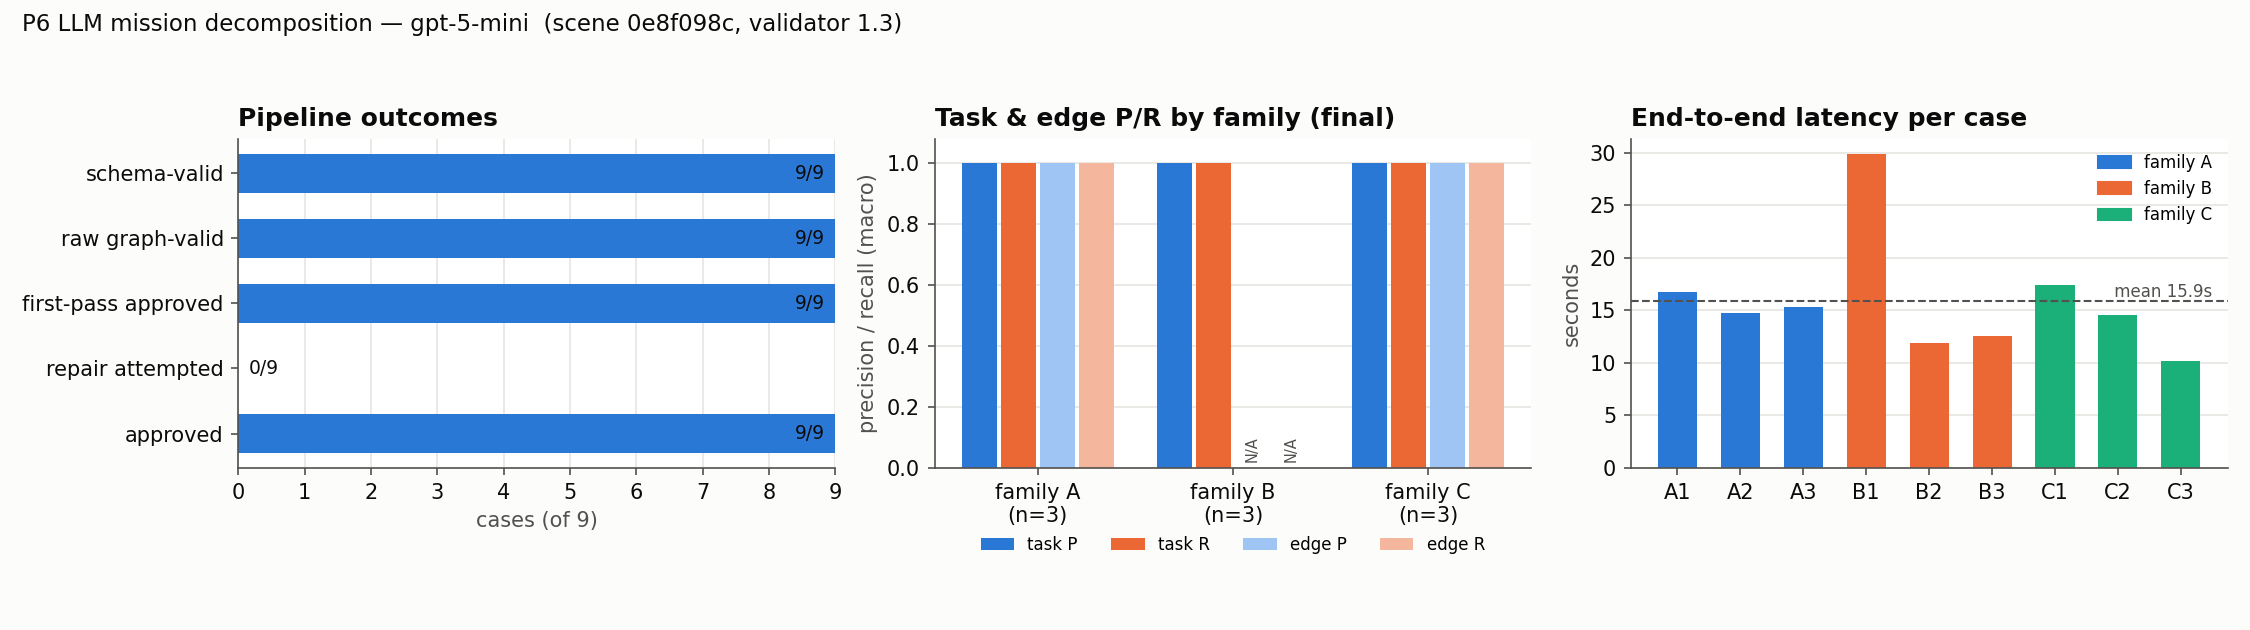
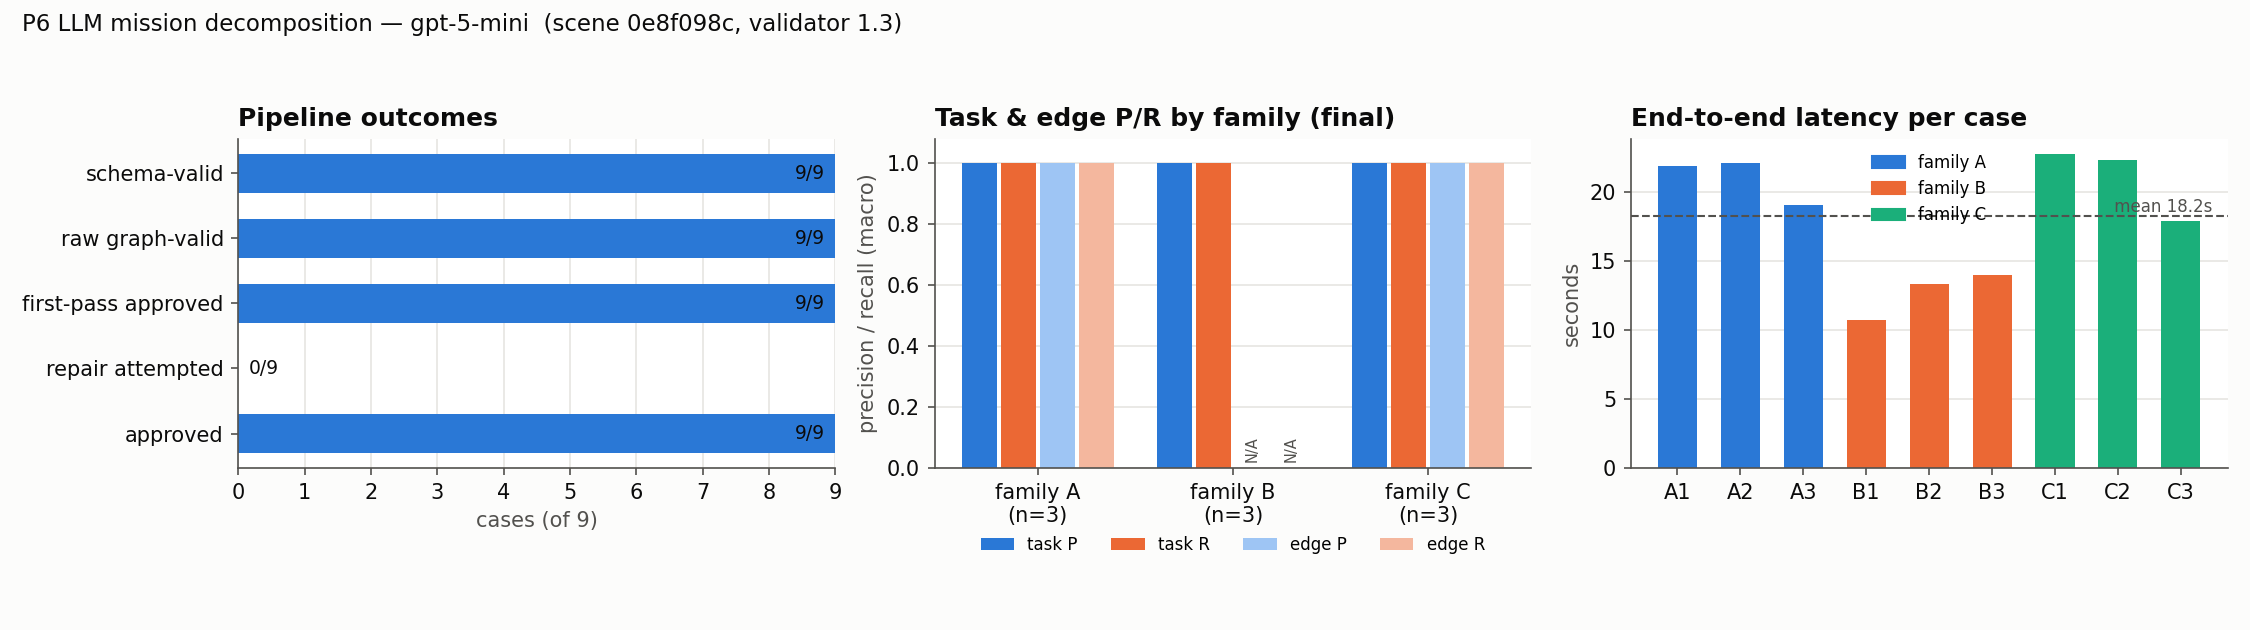
D-023: enforce incident priority range in the scene loader + P6 review fixups
New blocking bug from the P6 re-review: priority's source of truth moved to the
semantic scene (D-022) but scenarios/scene.py still did int(i["priority"]), so
priority: 11 loaded, passed the Validator, then crashed the compiler; true -> 1
and "9" -> 9 were laundered through. scene.py now rejects anything that is not
an int in 1..10 (no bool, no str). Regression tests for 0 / 11 / True / "9".
VALIDATOR_VERSION unchanged (load boundary, not a verdict rule); industrial_park
is already 9/7 so results are unaffected.

Doc fixups:
- CLAUDE.md session-entry stale (D-021/v1.20/1.2/214 -> D-023/v1.22/1.3/225).
- core/task.py docstring: LLM emits task_type+target, priority is derived.
- DECISIONS D-023 corrects the D-022 note on annotation priority (annotations
  reject a priority key, they don't "restore int/range checks").
- python -> python3 in README / P6_RESULTS reproduction commands.

Non-blocking: CaseResult/JSON now keep structured pipeline_errors
(code/subject/detail) so a schema failure is auditable, not just categorised.
Live re-run refreshed (9/9, same P/R, mean latency 18.2s). 225 tests, ruff clean.

Changed region(s): [[0.6844, 0.2413, 0.9956, 0.573], [0.7156, 0.6333, 0.7467, 0.6635]]

diff --git a/evaluation/harness.py b/evaluation/harness.py
@@ -55,6 +55,7 @@ class CaseResult:
     repaired_whole_graph_valid: bool | None
     failure_category: str | None
     harness_error: str | None
+    pipeline_errors: list[dict]  # structured GenerationResult.errors (code/subject/detail)
     latency_s: float
     resolved_models: tuple[str, ...]
     raw: GraphSnapshot | None
@@ -208,6 +209,10 @@ def _case_from_generation(
         repaired_schema_valid=gen.repaired_schema_valid,
         repaired_whole_graph_valid=gen.repaired_whole_graph_valid,
         failure_category=gen.failure_category, harness_error=None,
+        pipeline_errors=[
+            {"code": e.code.value, "subject": e.subject, "detail": e.detail}
+            for e in gen.errors
+        ],
         latency_s=latency, resolved_models=resolved,
         raw=_snapshot(scene, gen.raw_candidate, gen.raw_validation),
         final=_snapshot(scene, gen.candidate, gen.validation),
@@ -230,7 +235,7 @@ def run_case(ann: Annotation, scene: Scene, backend, *, on_error: str = "record"
             approved=False, attempts=0, repaired=False, raw_schema_valid=False,
             raw_whole_graph_valid=False, repaired_schema_valid=None,
             repaired_whole_graph_valid=None, failure_category=None,
-            harness_error=f"{type(exc).__name__}: {exc}",
+            harness_error=f"{type(exc).__name__}: {exc}", pipeline_errors=[],
             latency_s=time.perf_counter() - t0, resolved_models=resolved,
             raw=None, final=None, raw_score=None, final_score=None,
         )

diff --git a/scenarios/scene.py b/scenarios/scene.py
@@ -86,6 +86,15 @@ def _positive_finite(value: float, label: str) -> float:
     return v
 
 
+def _priority(value: object, label: str) -> int:
+    # The scene is the source of truth for priority (§7, D-022); the compiler
+    # trusts it, so the range check has to happen here, not be laundered by
+    # int() coercion (bool is not accepted; "9" is not accepted).
+    if not isinstance(value, int) or isinstance(value, bool) or not 1 <= value <= 10:
+        raise ValueError(f"{label} must be an int in 1..10, got {value!r}")
+    return value
+
+
 def load_scene(path: str | Path) -> Scene:
     raw = yaml.safe_load(Path(path).read_text())
 
@@ -97,7 +106,7 @@ def load_scene(path: str | Path) -> Scene:
         iid: Incident(
             incident_id=iid,
             zone=i["zone"],
-            priority=int(i["priority"]),
+            priority=_priority(i["priority"], f"{iid}.priority"),
             position=_xy(i["position"]),
             access_node=i["access_node"],
             status=IncidentStatus(i["status"]),

diff --git a/core/task.py b/core/task.py
@@ -1,9 +1,11 @@
 """Task data model (RESEARCH_CONTRACT.md §7).
 
-The LLM produces only ``task_type`` + ``target`` + ``priority``. Everything else
-(``task_id``, ``position``, ``required_capabilities``, ``eligible_platforms``,
-``duration``) is resolved deterministically by ``scenarios/compiler.py`` from
-the semantic scene and the default capability table.
+The LLM produces only ``task_type`` + ``target`` (D-022). Everything else
+(``task_id``, ``position``, ``priority``, ``required_capabilities``,
+``eligible_platforms``, ``duration``) is resolved deterministically by
+``scenarios/compiler.py`` from the semantic scene and the default capability
+table — ``priority`` via ``derive_priority`` (incident tasks inherit the
+incident priority; AREA_RECON gets a fixed constant).
 
 ``status`` is NOT stored independently in YAML; it is recomputed from the
 predecessor state in the task graph (see ``core/task_graph.py``).

diff --git a/tests/test_scene.py b/tests/test_scene.py
@@ -67,6 +67,22 @@ def test_invalid_incident_status_is_rejected(tmp_path):
         load_scene(bad)
 
 
+@pytest.mark.parametrize("bad", ["0", "11", "true", '"9"'])
+def test_incident_priority_out_of_1_to_10_or_non_int_is_rejected(tmp_path, bad):
+    # D-022: the scene is the source of truth for priority; the compiler trusts
+    # it, so the scene loader must reject anything that is not an int in 1..10 —
+    # no int() coercion (bool -> 1, "9" -> 9 must NOT slip through).
+    s = tmp_path / "s.yaml"
+    s.write_text(
+        _minimal_scene_yaml(
+            f"F1: {{zone: ZONE_A, priority: {bad}, position: [1, 1], access_node: N0,"
+            " status: RESPONSE_REQUIRED}"
+        )
+    )
+    with pytest.raises(ValueError, match="priority"):
+        load_scene(s)
+
+
 def test_incident_access_node_missing_from_route_graph_is_rejected(tmp_path):
     bad = tmp_path / "s.yaml"
     bad.write_text(

diff --git a/tests/test_evaluation.py b/tests/test_evaluation.py
@@ -258,6 +258,8 @@ def test_harness_schema_failure_leaves_score_none(scene, annotations):
     assert case.harness_error is None
     assert case.raw is None and case.final is None
     assert case.raw_score is None and case.final_score is None
+    # the specific schema error is kept for auditing, not just the category
+    assert case.pipeline_errors and case.pipeline_errors[0]["code"] == "E_SCHEMA"
 
 
 def test_harness_survives_a_raising_backend(scene, annotations):

diff --git a/evaluation/report.py b/evaluation/report.py
@@ -185,6 +185,7 @@ def to_dict(run: EvalRun) -> dict:
                 "repaired_whole_graph_valid": c.repaired_whole_graph_valid,
                 "failure_category": c.failure_category,
                 "harness_error": c.harness_error,
+                "pipeline_errors": c.pipeline_errors,
                 "latency_s": c.latency_s,
                 "resolved_models": list(c.resolved_models),
                 "raw": _snapshot_dict(c.raw),

diff --git a/docs/RESEARCH_CONTRACT.md b/docs/RESEARCH_CONTRACT.md
@@ -1,6 +1,6 @@
 # RESEARCH_CONTRACT.md — 단일 진실 원천
 
-버전 v1.21 (D-022). 이 문서와 코드가 충돌하면 이 문서가 우선한다. 변경 시 이 문서를 먼저 고치고
+버전 v1.22 (D-023). 이 문서와 코드가 충돌하면 이 문서가 우선한다. 변경 시 이 문서를 먼저 고치고
 `docs/DECISIONS.md`에 이유를 append한다.
 
 - v1.0 (D-001): 초판.
@@ -62,6 +62,12 @@
   최종 `candidate`/`validation`을 분리 보존 명시.
 - v1.19 (D-020): §12에 prompt task glossary(의미+담당 platform) 포함을 명시 — P6 결과가
   task 이름의 영어 의미 추측 능력이 아니라 임무 분해 능력을 재도록.
+- v1.22 (D-023): P6 재검토 반영. §7 — incident `priority` 1..10 강제를 **scene loader**로
+  이동(D-022는 compiler 파생만 명시해 scene 입력 경계가 비어 있었음 — `int()` 강제 변환으로
+  잘못된 값이 Validator를 통과 후 compile에서 크래시). D-022 본문의 "annotation 명시형
+  schema에 int·범위 검사 복원" 서술 정정 — annotation도 `{task_type, target}`만 허용하고
+  priority 키를 거부한다. 문서: `python` → `python3` 통일, `core/task.py`·`CLAUDE.md` 옛
+  LLM schema 서술 갱신. VALIDATOR_VERSION 불변(scene load 경계, 판정 규칙 아님).
 - v1.21 (D-022): P6 Codex 검토 반영. §7 — LLM 출력에서 `priority` 제거, task entry는
   `{task_type, target}`; `derive_priority`(incident → incident.priority, AREA_RECON →
   상수 4)가 파생. §1 RQ1을 "구조 생성"으로 재서술. §9 — candidate 경로는 invariant
@@ -306,9 +312,12 @@ schema 검증(§9 #1)은 이를 강제한다 — top-level 키는 정확히 `{ta
   없으므로 균일하며, 두 incident priority(7·9)보다 낮아 CBBA가 진행 중 사건 대응을 zone
   정찰보다 앞세운다.
 
-파생된 priority는 정수 **1..10**이며(`core/task.py`의 `Task.__post_init__`가 강제, D-008 —
-CBBA 보상이 0·음수에서 음수 bid·미할당을 내지 않도록), audit hash(§14 `graph_hash`)의
-node payload에 포함된다.
+incident priority의 진실 원천은 semantic scene이므로, **scene loader가 로드 시점에**
+각 incident `priority`가 정수 **1..10**임을 강제한다(D-023 — bool·문자열 `int()` 강제
+변환 없음). compiler는 scene을 신뢰하므로 이 검사가 없으면 Validator가 승인한 graph가
+compile 단계에서 깨질 수 있다. `core/task.py`의 `Task.__post_init__`가 최종 방어선으로
+같은 범위를 재확인한다(D-008 — CBBA 보상이 0·음수에서 음수 bid·미할당을 내지 않도록).
+파생된 priority는 audit hash(§14 `graph_hash`)의 node payload에 포함된다.
 
 MissionPatch(`AddTask`, §10)의 priority 처리는 RQ3(P8) 구현 시 같은 파생 규칙으로 정렬한다.
 그때까지 `AddTask.priority`는 유지하되 end-to-end로 쓰이지 않는다(D-006).

diff --git a/docs/DECISIONS.md b/docs/DECISIONS.md
@@ -761,3 +761,33 @@ P6 감사 보강:
 **영향** `llm/{schemas,prompts,pipeline}.py`, `validator/{candidate,validate,hashing}.py`,
 `scenarios/{compiler,fixture}.py` + `reference_fixture.yaml`, `evaluation/{annotations,
 harness,metrics,report,plots}.py`, 12개 test 파일. `docs/P6_RESULTS.md` 재작성. 라이브 재실행.
+## D-023: scene loader priority 강제 + D-022 정정 (계약 v1.22)
+
+**배경** P6 재검토(D-022 반영분). 원래 지적 8개는 모두 해결됐고 제3자가 JSON으로 9 case를
+독립 재계산해 일치 확인. 다만 새 차단 버그 1개:
+
+- **scene priority 검증이 너무 늦음.** D-022가 priority의 진실 원천을 semantic scene으로
+  옮겼는데 `scenarios/scene.py`는 여전히 `int(i["priority"])`로 강제 변환. 재현:
+  `priority: 11` → scene 로드 성공 → `validate_candidate` accepted=True → compiler에서
+  `ValueError` 크래시. `priority: true` → 1로 변환 승인. `priority: "9"` → 9로 변환 승인.
+  계약 §7 "파생 priority는 정수 1..10"을 scene 입력 경계가 보장하지 않았다.
+
+**결정**
+
+- `scenarios/scene.py`에 `_priority(value, label)` — `isinstance(int)` and not `bool` and
+  `1 <= v <= 10`이 아니면 `ValueError`. `int()` 강제 변환 제거. incident 로드 시 적용.
+  회귀 테스트 4값(`0`, `11`, `True`, `"9"`).
+- **D-022 본문 정정**: "annotation 명시형 schema에 bool 제외 int·범위 검사 복원"이라고
+  적었으나 실제 구현·의도는 **annotation도 `{task_type, target}`만 허용하고 priority 키를
+  거부**하는 것이다(`evaluation/annotations.py` `_expand`, 테스트
+  `test_annotation_explicit_task_with_priority_key_is_rejected`). Append-only이므로 D-022
+  본문은 두고 이 항목이 정정본이다.
+- **문서**: `README.md`·`docs/P6_RESULTS.md`의 재현 명령을 `python3 -m evaluation`으로 통일
+  (이 환경에 `python` 없음). `core/task.py` docstring과 `CLAUDE.md`의 옛 LLM schema 서술
+  (priority 생성) 갱신.
+- `VALIDATOR_VERSION`은 올리지 않는다 — scene load 경계 강화이지 Validator 판정 규칙
+  변경이 아니며, `industrial_park.yaml`은 이미 9/7로 유효해 기존 결과·JSON에 영향 없음.
+  라이브 API 재실행 불필요.
+
+**영향** `scenarios/scene.py`, `tests/test_scene.py`(+4), `core/task.py`(docstring),
+`README.md`, `docs/P6_RESULTS.md`, `CLAUDE.md`. 라이브 재실행 없음.

diff --git a/CLAUDE.md b/CLAUDE.md
@@ -19,15 +19,15 @@ DECISIONS), task 어휘, UAV dataclass, domain invariant, prompt, scenario, worl
 
 1. `docs/RESEARCH_CONTRACT.md` 통독 — 특히 §1(연구질문), §9(Validator invariant),
    §10(MissionPatch/reconciliation), §11(CBBA epoch/scoring), §15(구현 순서/게이트)
-2. `docs/DECISIONS.md`에서 최신 항목 확인 (현재 D-021, 계약 v1.20)
+2. `docs/DECISIONS.md`에서 최신 항목 확인 (현재 D-022, 계약 v1.21)
 3. `docs/PROVENANCE.md`에서 지금까지 이식된 코드가 있는지 확인
 4. `README.md`의 "현재 단계" 확인
 
 ## 지금 어디까지 왔는지 (2026-09-01 기준)
 
-**P1~P5 승인 완료 + P6 구현 완료 (Codex 검토 대기). 계약 v1.20 (D-021).**
+**P1~P5 승인 완료 + P6 구현 완료 (Codex 재검토 대기, D-022 반영). 계약 v1.21 (D-022).**
 `validator/`(P2) + `allocation/`(P3) + `execution/`(P4) + `llm/`(P5) + `evaluation/`(P6).
-`VALIDATOR_VERSION = "1.2"`, `λ = 0.999`. pytest 214개 통과, ruff clean.
+`VALIDATOR_VERSION = "1.3"`, `λ = 0.999`. pytest 225개 통과, ruff clean.
 
 workflow: `THERMAL_RECON → SUPPRESSANT_DROP → GROUND_INSPECTION → GROUND_SUPPRESSION`
 (D-016, symbolic UGV 진압). 골든값 P3 makespan ~359.8 / P4 ~257.9, violation 0.
@@ -60,11 +60,11 @@ P6 구조 (D-021, D-022):
   attempted/recovered/first-pass 분리, family 분해, 재현성 triple, backend 예외는
   `harness_error`(≠ `failure_category`).
 - `evaluation/report.py`(표+감사 JSON), `evaluation/plots.py`(3-panel 그림, `viz` extra).
-- 실행: `python -m evaluation [--mock] [--out PREFIX] [--plot]`.
+- 실행: `python3 -m evaluation [--mock] [--out PREFIX] [--plot]`.
 
-P6 실측 (gpt-5-mini-2025-08-07, 2026-09-01, validator 1.3): 9/9 approved, task P/R
+P6 실측 (gpt-5-mini-2025-08-07, 2026-09-02, validator 1.3): 9/9 approved, task P/R
 1.00/1.00, edge P/R 1.00/1.00(family A·C), exact match 9/9, repair 0회, latency mean
-15.9s. `docs/P6_RESULTS.md`, `data/eval_results/`. 승인된 candidate는 invariant
+18.2s. `docs/P6_RESULTS.md`, `data/eval_results/`. 승인된 candidate는 invariant
 **#1~#12** 만족(#13~#14는 patch 전용).
 
 다음: Codex의 P6 재검토(D-022 반영분) → 이후 P7(platform adapter) / P8.

diff --git a/docs/P6_RESULTS.md b/docs/P6_RESULTS.md
@@ -12,16 +12,17 @@ RESEARCH_CONTRACT.md §12 / §15, D-021, D-022. 소표본(9개) 평가이므로 
 | 모델 (실제 resolved, 전 호출) | `gpt-5-mini-2025-08-07` |
[1 lines of base64/hex data omitted]
 | validator_version | `1.3` (candidate 경로 invariant **#1~#12**) |
-| 실행 시각 (UTC) | 2026-09-01 17:27:22 – 17:29:45 |
+| 실행 시각 (UTC) | 2026-09-02 09:39:33 – 09:42:17 |
 | 입력 | `data/reference_annotations/{A1..C3}.yaml` (LLM 호출 전 커밋: `c3ed0f3`) |
 | 원자료 | `data/eval_results/p6_gpt-5-mini.{json,txt}`, 그림 `.png/.pdf` |
 
 `p6_gpt-5-mini.json`은 case별로 raw·final 후보의 `tasks`(task_type/target/파생 priority)·
-`edges`·`graph_hash`·`accepted`·`error_codes`를 담는다. 제3자는 `task_type`/`target`만으로
+`edges`·`graph_hash`·`accepted`·`error_codes`, 그리고 schema/구조 실패 시 구조화된
+`pipeline_errors`(code/subject/detail)를 담는다. 제3자는 `task_type`/`target`만으로
 task·edge precision/recall·exact match를 독립 재계산할 수 있다.
 
 재현: `pip install -e '.[llm,viz]'` 후
-`python -m evaluation --model gpt-5-mini --out data/eval_results/p6_gpt-5-mini --plot`.
+`python3 -m evaluation --model gpt-5-mini --out data/eval_results/p6_gpt-5-mini --plot`.
 
 ## 집계 (X/9)
 
@@ -57,8 +58,8 @@ family별 (final):
 
 ## Latency
 
-명령당 벽시계(Step1+Step2, repair 없음): min 10.1s / mean 15.9s / max 29.8s.
-최대는 B1(29.8s), family B(6 task/0 edge)의 나머지 둘은 가장 빠름.
+명령당 벽시계(Step1+Step2, repair 없음): min 10.7s / mean 18.2s / max 22.7s.
+가장 빠른 건 family B(6 task/0 edge).
 
 ## 해석
 

diff --git a/README.md b/README.md
@@ -16,10 +16,10 @@ Unmanned Systems
 `SimExecutor`) + `llm/`(P5: Step1/Step2/repair 파이프라인 §12) + `evaluation/`(P6:
 9개 입력 평가 하네스 + 감사 JSON + 시각화). 테스트 221개 통과(`python3 -m pytest -q`).
 
-P6 실측(gpt-5-mini, 2026-09-01, validator 1.3): 9/9 approved, task precision/recall
+P6 실측(gpt-5-mini, 2026-09-02, validator 1.3): 9/9 approved, task precision/recall
 1.00/1.00, edge P/R 1.00/1.00(family A·C), exact graph match 9/9, repair 0회. 상세는
 [`docs/P6_RESULTS.md`](docs/P6_RESULTS.md), 원자료 `data/eval_results/`.
-재현: `python -m evaluation --out data/eval_results/p6 --plot`.
+재현: `python3 -m evaluation --out data/eval_results/p6 --plot`.
 
 priority·좌표·capability는 LLM이 만들지 않고 결정론적 compiler가 파생한다(D-022) —
 LLM 출력은 graph 구조(task_type·target·edge)뿐이다. task 어휘: `GROUND_SUPPRESSION`
